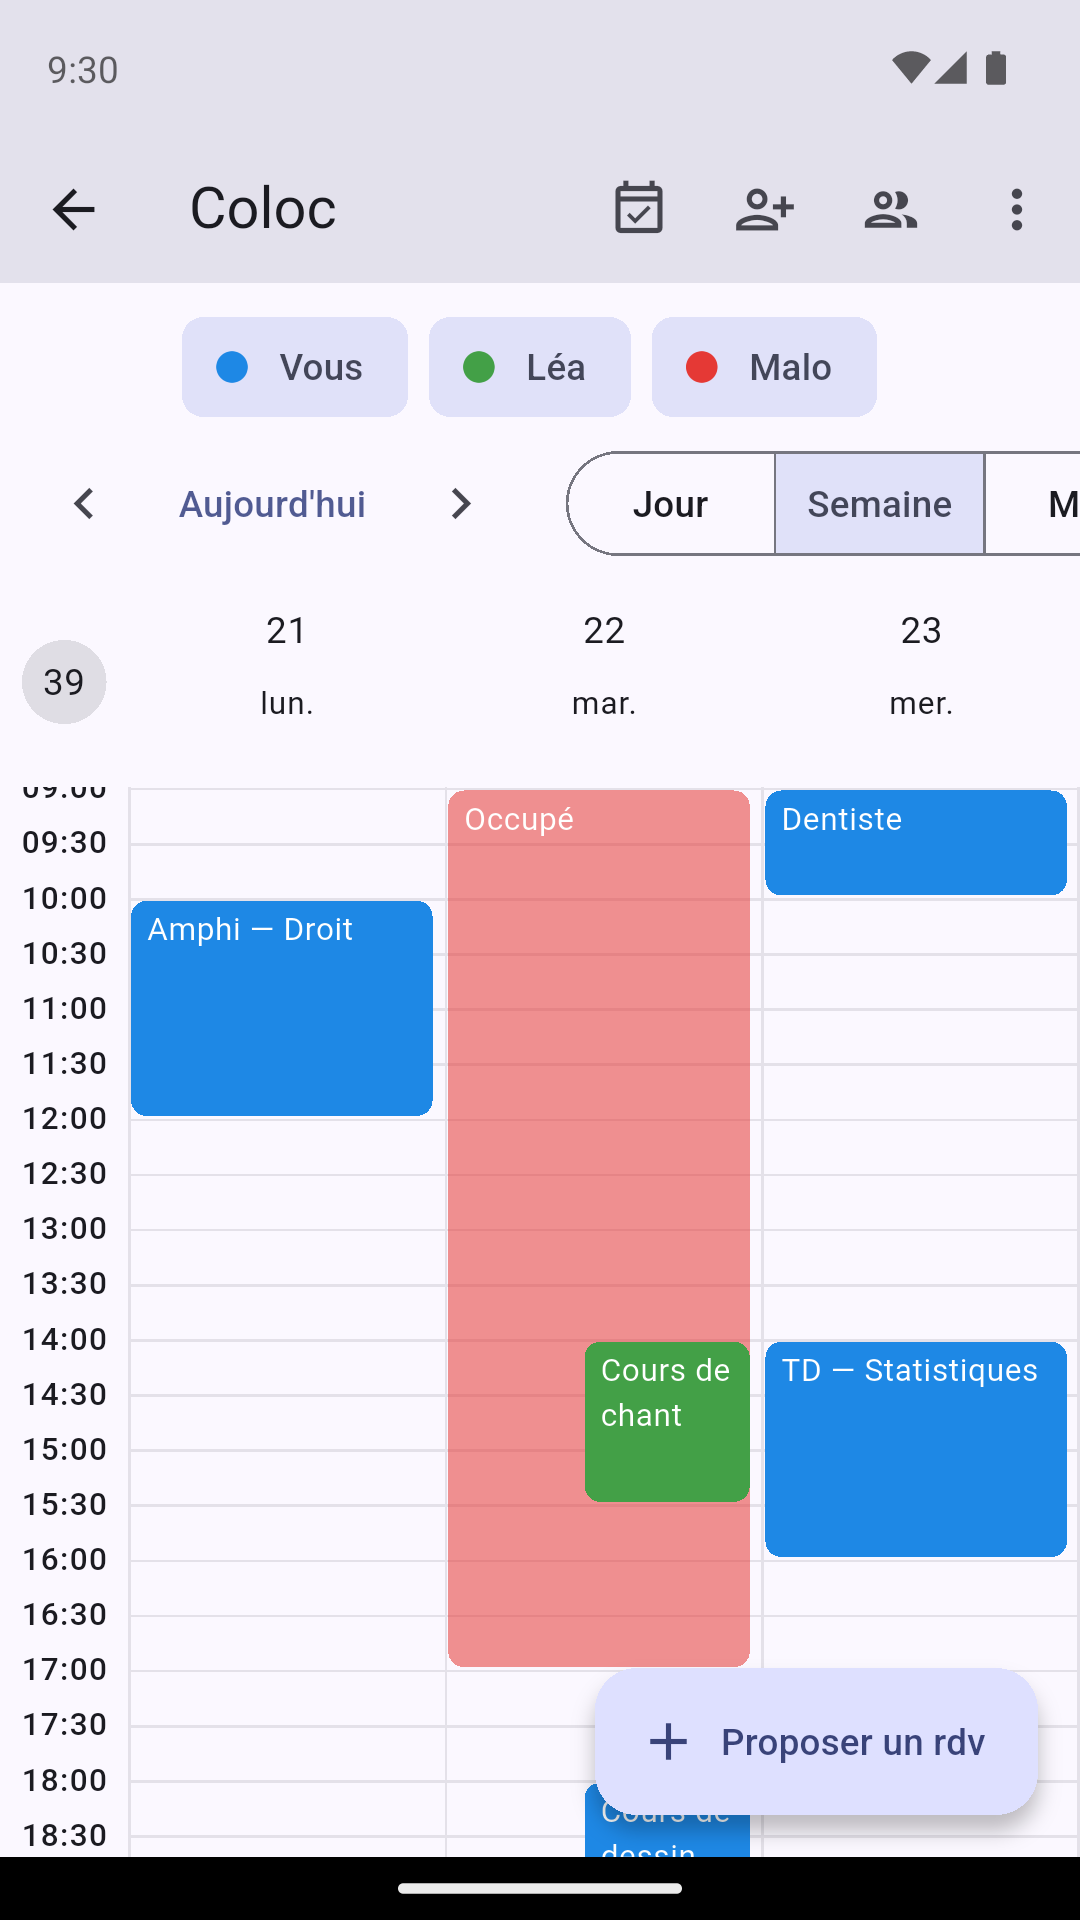
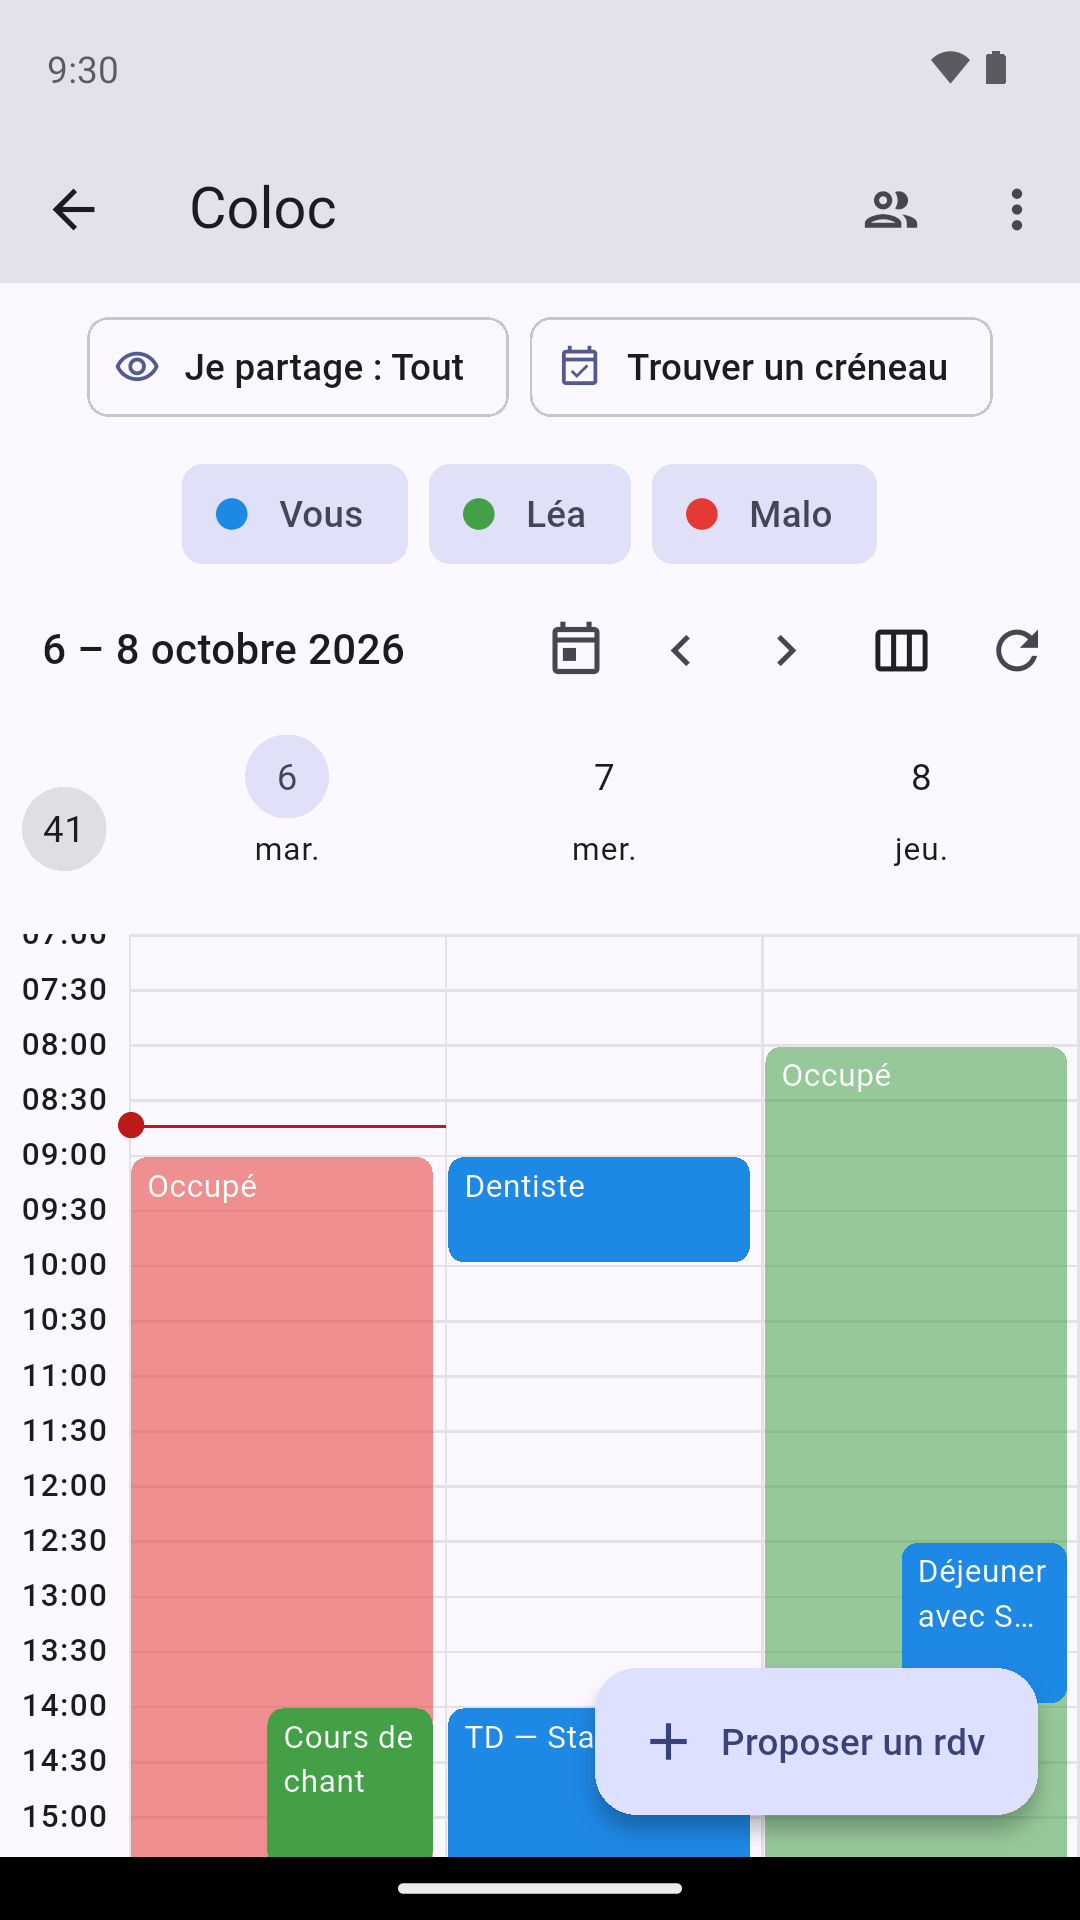
docs(store): captures de la fiche refaites pour la nouvelle interface
Huit captures d'émulateur (1080 × 1920, PNG 24 bits) : Planning, Coloc,
onglet Social, créneaux, Raclette, Mes agendas, page d'un proche, vue mois.
La scène de démo ajoute un proche (Hugo : anniversaire, horaires, repos) ;
la procédure lance le worker et met l'émulateur à l'heure de Paris.

diff --git a/tools/store/seed_demo.py b/tools/store/seed_demo.py
@@ -5,9 +5,13 @@ Pourquoi un script : une capture se refait — un libellé qui change, une vue
 qu'on ajoute, une traduction qui s'allonge. Rejouer la scène à l'identique vaut
 mieux que de recomposer à la main des rendez-vous plausibles.
 
-La scène raconte le produit en cinq écrans : mon agenda, l'agenda d'un groupe
-où chacun partage ce qu'il veut, la recherche de créneau commun, un rdv proposé
-avec ses réponses, et un agenda importé par lien iCal.
+La scène raconte le produit en sept écrans : mon agenda, l'agenda d'un groupe
+où chacun partage ce qu'il veut, l'onglet Social, la recherche de créneau
+commun, un rdv proposé avec ses réponses, un agenda importé par lien iCal, et
+l'agenda d'un proche (son anniversaire, ses horaires).
+
+Les séries (anniversaire, horaires) ne s'affichent qu'une fois dépliées par le
+worker : le lancer sur la pile locale avant de prendre les captures.
 
 Deux groupes, pas un : c'est le seul moyen de montrer la promesse centrale —
 Camille ouvre le détail à sa coloc et se contente de « occupé » avec le club
@@ -274,6 +278,63 @@ def main() -> None:
             },
             key=SECRET,
         )
+
+    # --- Un proche : l'agenda que Camille tient pour son frère, à elle seule.
+    # Son anniversaire tombe dans trois jours (« À venir » dans Social), ses
+    # horaires se répètent en semaine, et il est de repos mercredi. Créé avec
+    # la clé de service, comme l'agenda importé : demander la ligne en retour
+    # d'un INSERT sur `calendars` se heurte à la règle de lecture.
+    hugo = call(
+        '/rest/v1/calendars',
+        {
+            'owner_id': call('/auth/v1/user', token=camille)['id'],
+            'name': 'Hugo',
+            'color': '#FB8C00',
+            'visibility': 'invisible',
+            'contact': True,
+        },
+        key=SECRET,
+    )[0]['id']
+    anniversaire = (TODAY + timedelta(days=3)).date()
+    call(
+        '/rest/v1/events',
+        {
+            'calendar_id': hugo,
+            'title': 'Anniversaire de Hugo',
+            'starts_at': f'{anniversaire}T00:00:00+00:00',
+            'ends_at': f'{anniversaire + timedelta(days=1)}T00:00:00+00:00',
+            'all_day': True,
+            'timezone': 'Europe/Paris',
+            'rrule': 'FREQ=YEARLY',
+        },
+        token=camille,
+    )
+    call(
+        '/rest/v1/events',
+        {
+            'calendar_id': hugo,
+            'title': 'Travail',
+            'starts_at': at(0, 9),
+            'ends_at': at(0, 17),
+            'all_day': False,
+            'timezone': 'Europe/Paris',
+            'rrule': 'FREQ=WEEKLY;BYDAY=MO,TU,TH,FR',
+        },
+        token=camille,
+    )
+    repos = (MONDAY + timedelta(days=2)).date()
+    call(
+        '/rest/v1/events',
+        {
+            'calendar_id': hugo,
+            'title': 'Repos',
+            'starts_at': f'{repos}T00:00:00+00:00',
+            'ends_at': f'{repos + timedelta(days=1)}T00:00:00+00:00',
+            'all_day': True,
+            'timezone': 'Europe/Paris',
+        },
+        token=camille,
+    )
 
     # **Le mot de passe ne s'imprime pas.** Il est fixe et sans valeur pour la
     # pile locale, mais `seed_review.py` réutilise cette fonction avec un mot

diff --git a/app/store/README.md b/app/store/README.md
@@ -11,7 +11,7 @@ regarde sur un vrai téléphone.
 | Fichier | Produit par |
 |---|---|
 | [`declarations-play.md`](declarations-play.md) | les réponses aux questionnaires obligatoires, et ce qui les justifie |
-| `01-agenda.png` … `06-import.png` | captures d'émulateur, scène posée par [`tools/store/seed_demo.py`](../../tools/store/seed_demo.py) |
+| `01-agenda.png` … `08-mois.png` | captures d'émulateur, scène posée par [`tools/store/seed_demo.py`](../../tools/store/seed_demo.py) |
 | `icon-512.png`, `feature-1024x500.png` | [`tools/store/make_store_assets.py`](../../tools/store/make_store_assets.py) |
 
 Le même script écrit aussi les `mipmap-*` d'Android, l'icône adaptative et le
@@ -24,10 +24,22 @@ Elles viennent d'un **émulateur**, pas du navigateur : Flutter web ignore le
 ratio de pixels émulé et rend un layout de tablette, inutilisable pour une
 fiche.
 
+Huit captures, dans l'ordre de la fiche : `01-agenda` (vue Planning),
+`02-groupe` (Coloc), `03-social` (onglet Social : anniversaire à venir, proche,
+groupes), `04-creneaux` (Trouver un créneau), `05-rdv` (la Raclette et ses
+réponses), `06-import` (Moi → Mes agendas), `07-proche` (la page de Hugo),
+`08-mois` (vue Mois : pastilles et liste du jour).
+
 ```bash
 supabase db reset && python tools/store/seed_demo.py   # la scène de démo
+# Les séries (anniversaire et horaires de Hugo) ne s'affichent que dépliées :
+cd worker && AGORA_DATABASE_URL=postgresql://agora_worker:agora-worker-local@127.0.0.1:55322/postgres \
+  AGORA_HTTP_ADDR=127.0.0.1:58091 go run ./cmd/worker &   # lancé AVANT la scène
 
-# Un émulateur au format attendu par Play (9:16) et une barre de statut propre
+# L'émulateur « agora », au format attendu par Play (9:16), à l'heure de Paris
+# (sinon toute la scène glisse de deux heures), et une barre de statut propre
+emulator -avd agora -no-snapshot-load -no-audio -gpu swiftshader_indirect &
+adb shell cmd alarm set-timezone Europe/Paris
 adb shell wm size 1080x1920 && adb shell wm density 420
 adb shell settings put global sysui_demo_allowed 1
 adb shell am broadcast -a com.android.systemui.demo -e command enter
@@ -42,8 +54,14 @@ cd app && flutter build apk --profile --target-platform android-x64 \
   --dart-define-from-file=config/emulateur.json     # SUPABASE_URL=http://10.0.2.2:55321
 adb install -r -t build/app/outputs/flutter-apk/app-profile.apk
 adb shell cmd locale set-app-locales app.agora --locales fr-FR
-adb exec-out screencap -p > app/store/01-agenda.png
+# Une capture : sur l'appareil, puis rapatriée (une redirection depuis Git
+# Bash corrompt le PNG) ; Play veut du PNG 24 bits, sans couche alpha.
+adb shell screencap -p /sdcard/c.png && adb pull /sdcard/c.png app/store/01-agenda.png
+python -c "from PIL import Image; Image.open('app/store/01-agenda.png').convert('RGB').save('app/store/01-agenda.png')"
 ```
+
+Pour les captures de l'agenda (01 et 08), Hugo est masqué (Agendas affichés) :
+ses horaires de semaine couvriraient sinon la semaine de Camille.
 
 Trois pièges qui coûtent une heure chacun :
 
